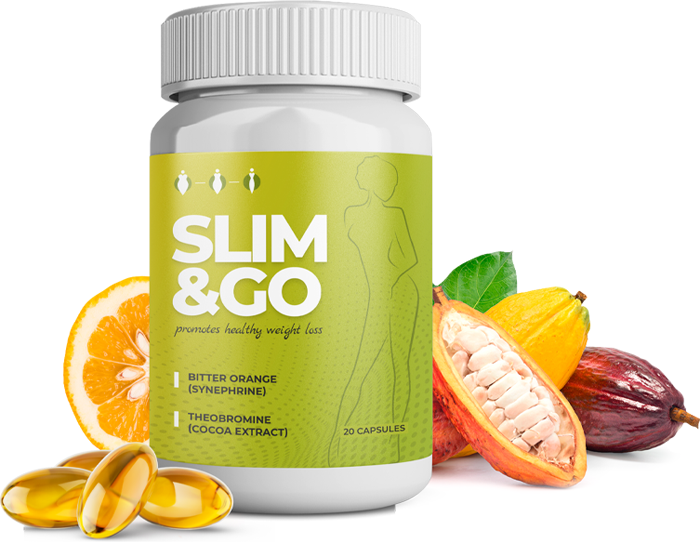
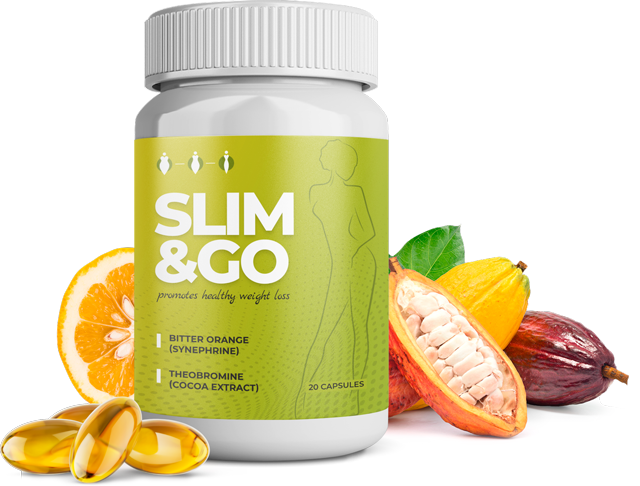
правки

diff --git a/src/sass/block/face.scss b/src/sass/block/face.scss
@@ -8,7 +8,7 @@
     position: absolute;
     bottom: 0;
     left: 50%;
-    transform: translate(calc(-50% - 50px), 165px);
+    transform: translate(calc(-50% - 50px), 150px);
 
     &::before {
         position: absolute;
